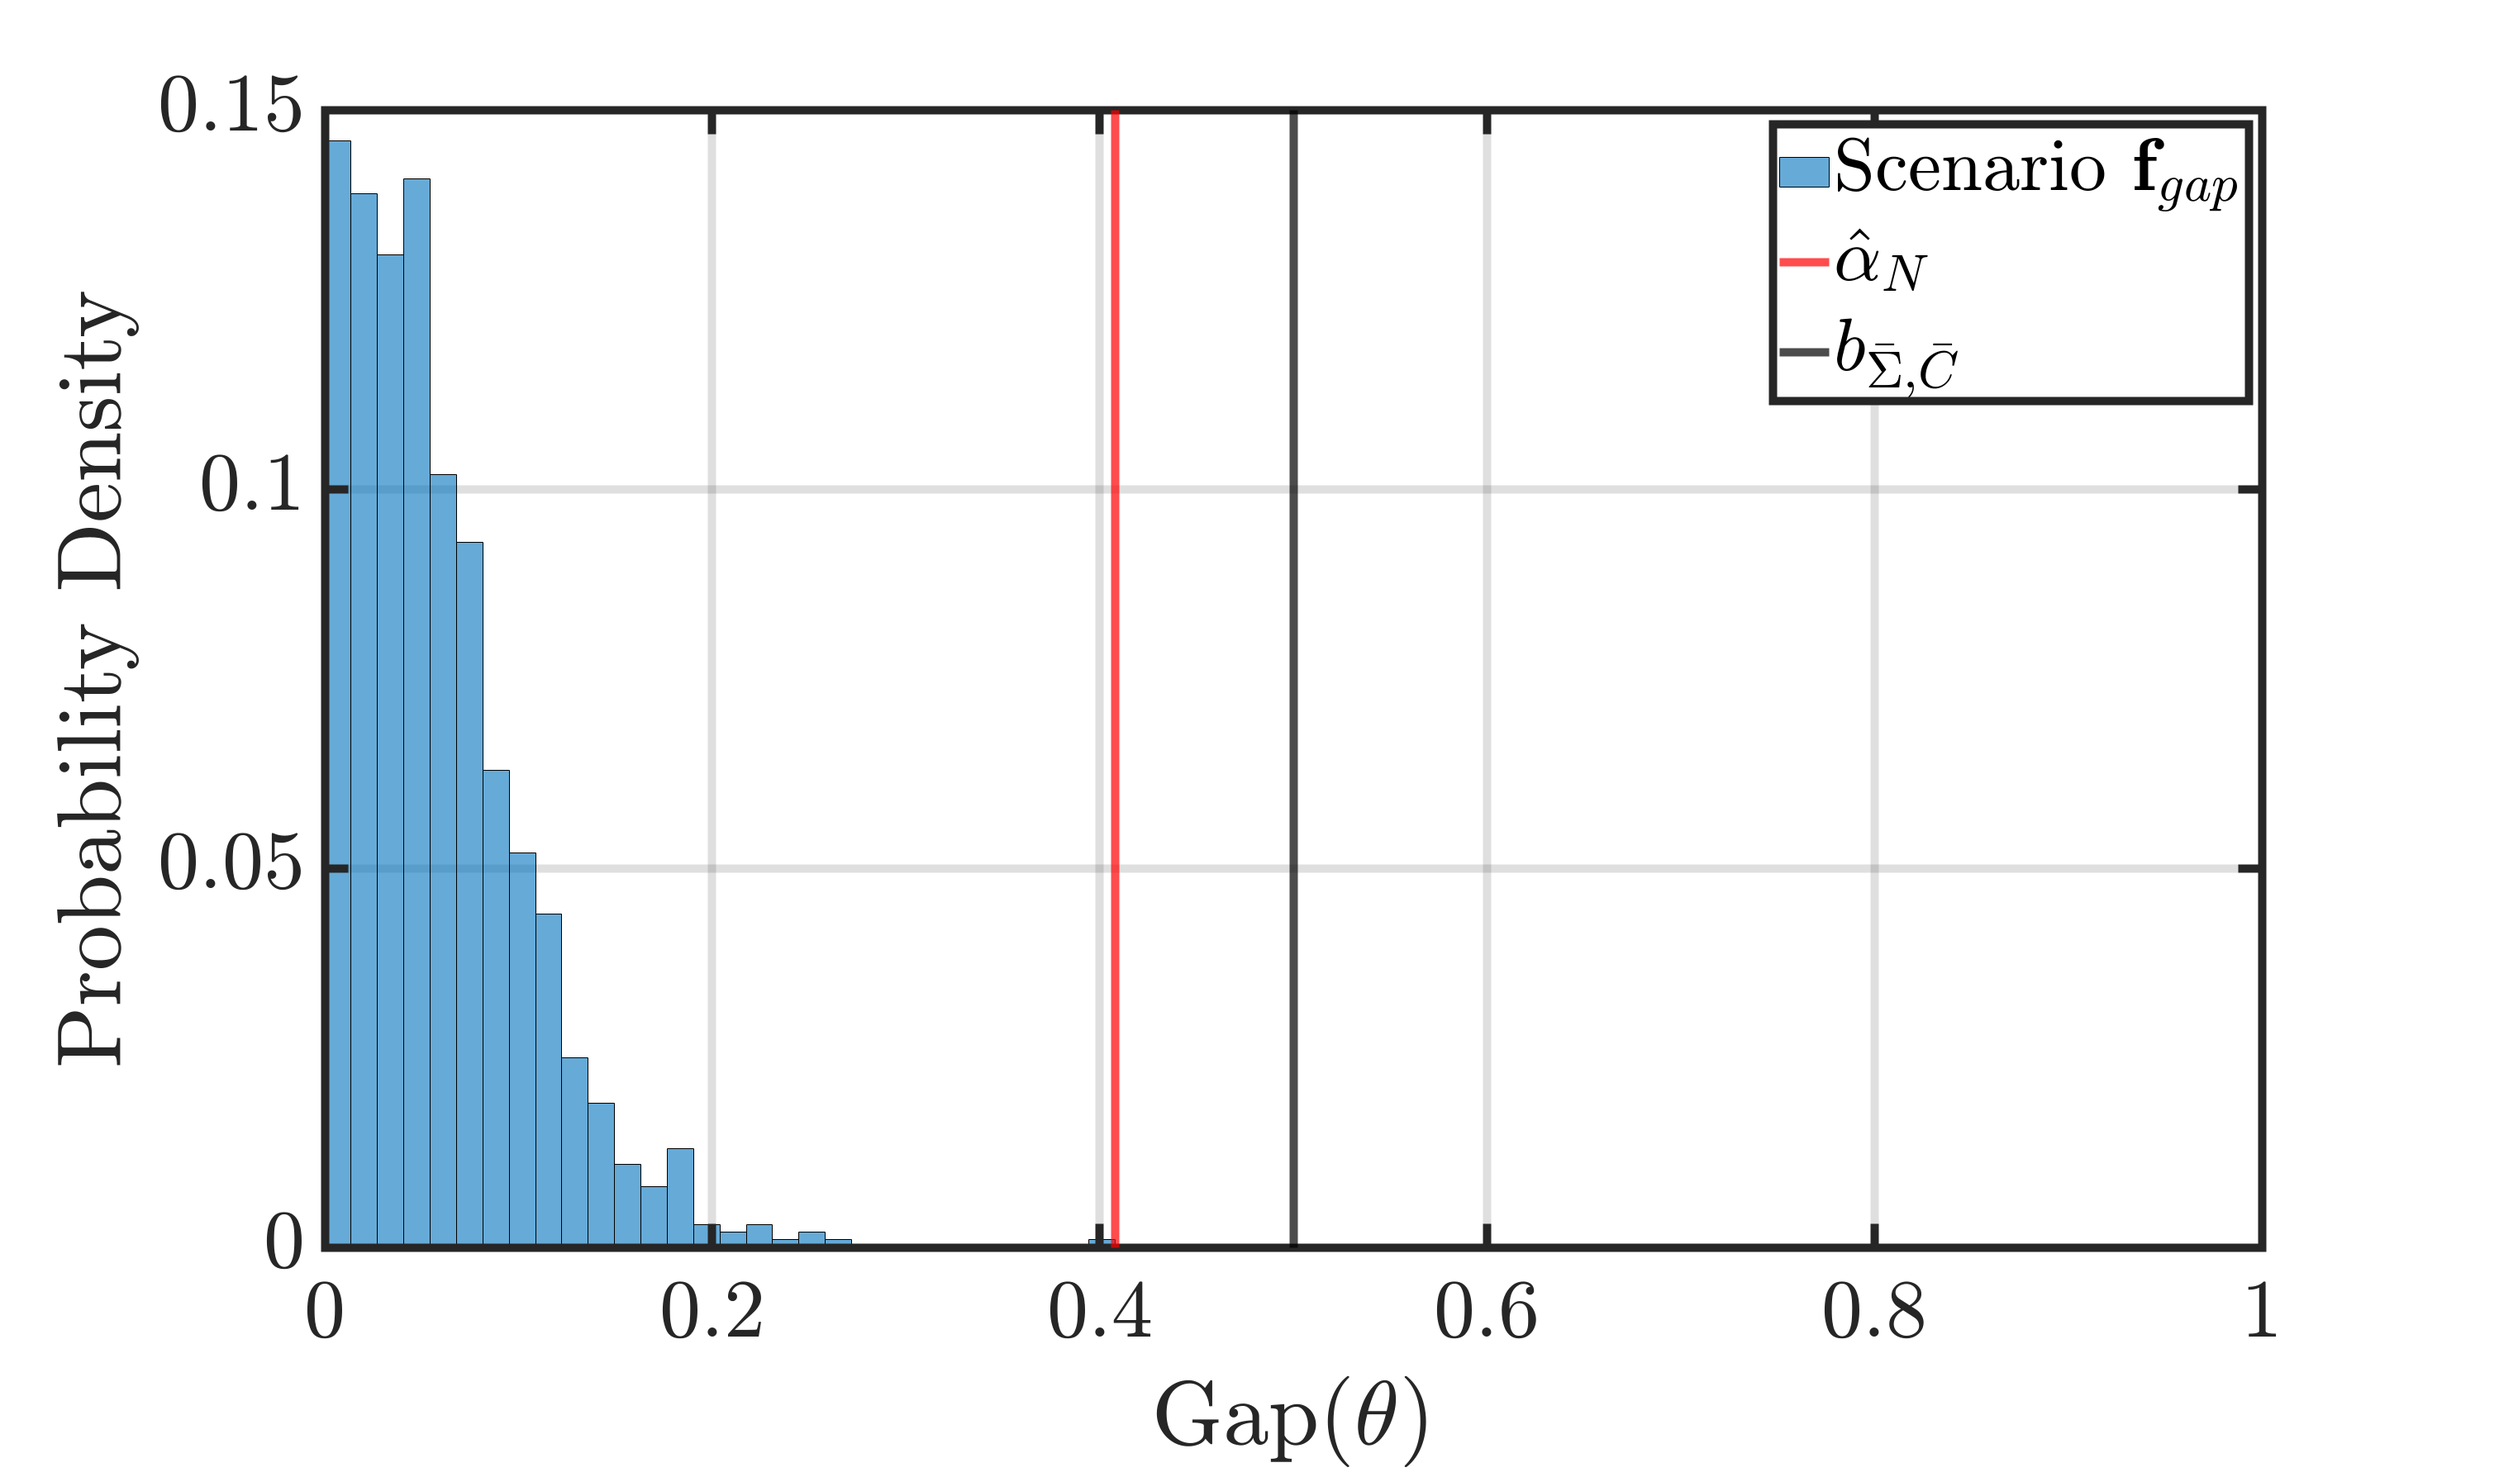
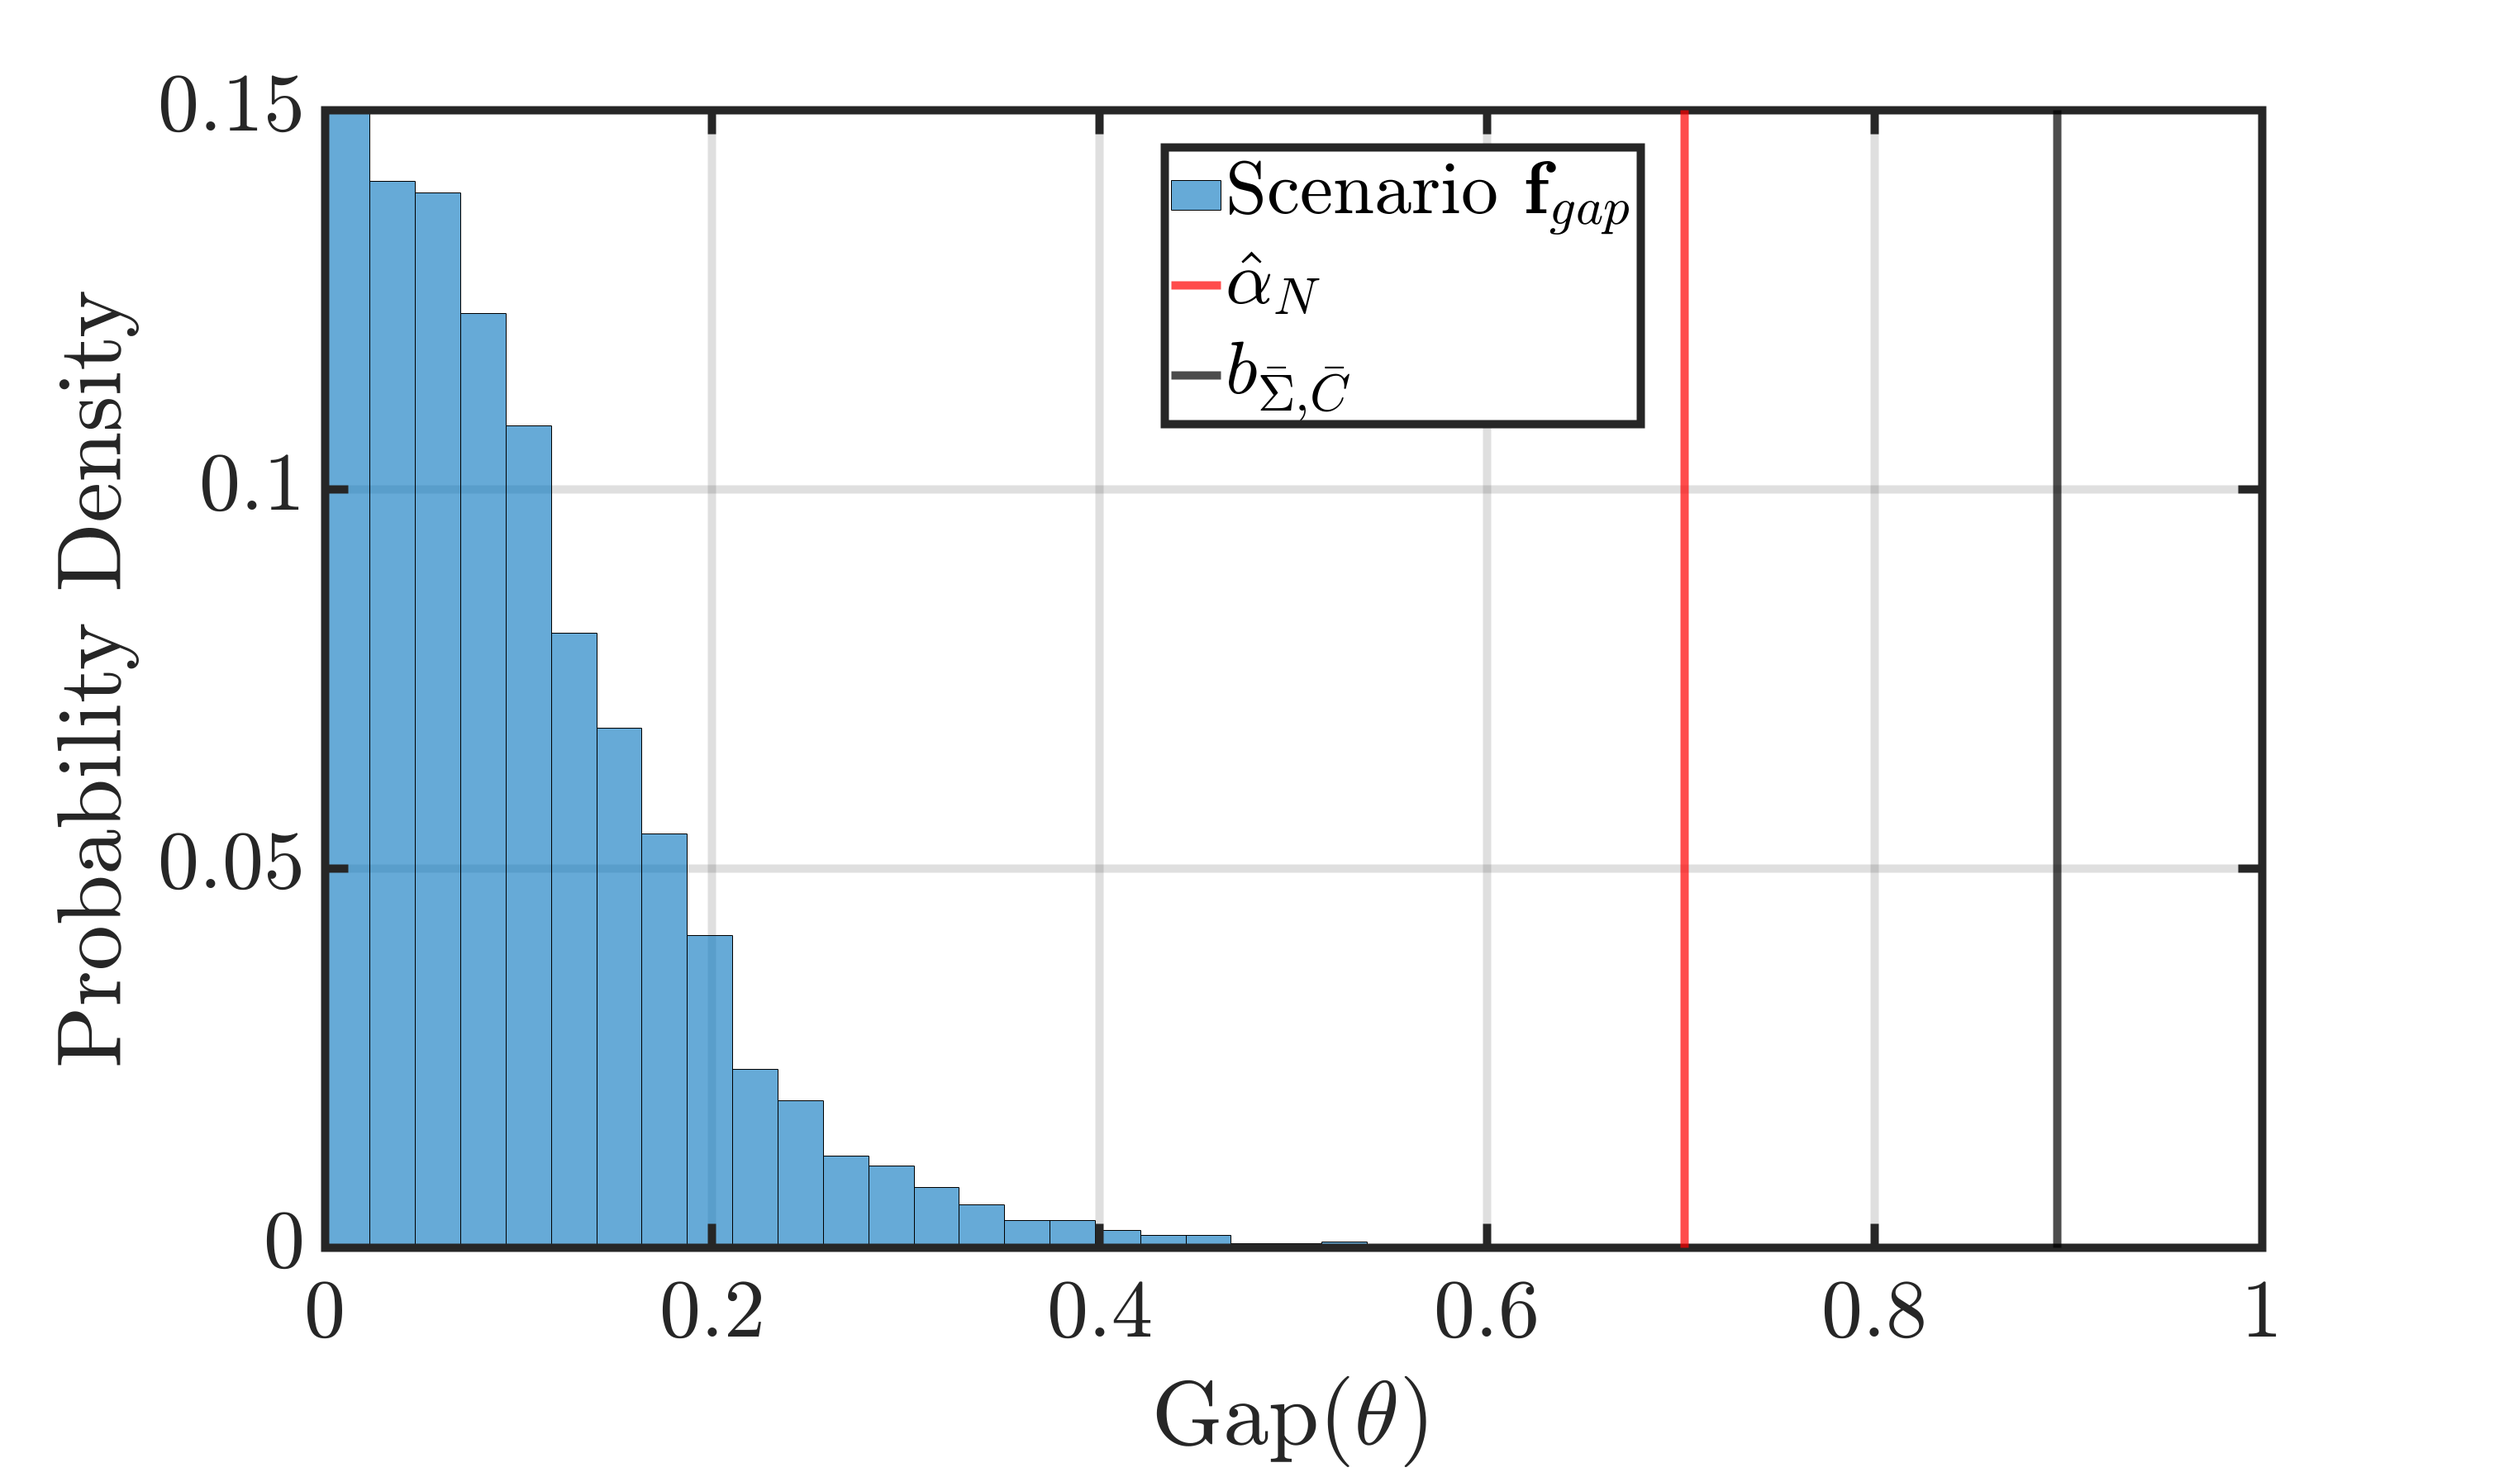
Many changes

Changed region(s): [[0.1243, 0.0615, 0.9015, 0.8613]]

diff --git a/probabilisticGapGuarantees.m b/probabilisticGapGuarantees.m
@@ -10,7 +10,7 @@
 %
 % Email: v.renganathan@cranfield.ac.uk
 %
-% Date last updated: 10 July, 2025.
+% Date last updated: 12 July, 2025.
 %
 %%%%%%%%%%%%%%%%%%%%%%%%%%%%%%%%%%%%%%%%%%%%%%%%%%%%%%%%%%%%%%%%%%%%%%%%%%%
 %%%%%%%%%%%%%%%%%%%%%%%%%%%%%%%%%%%%%%%%%%%%%%%%%%%%%%%%%%%%%%%%%%%%%%%%%%%
@@ -45,18 +45,23 @@ bPC_Nominal = compute_bpc(nominalSystem, nominalControllerStateSpace); % 0.8;
 
 %% Parameters for Simulation
 
-
 % Set the number of samples of \theta for Monte-Carlo simulation
-numSamples = 1000;
+numSamples = 10000;
 
 % Mean of \theta
-muTheta = [0.1; -0.05];
+meanTheta = [0.1; -0.05];
+
+% Infer the dimension of \theta parameter
+thetaDimension = size(meanTheta, 1);
 
 % Set the standard deviation for \theta parameter
-sigmaTheta = 0.5;
+standardDeviationTheta = 0.5;
+
+% Form the covariance matrix of \theta parameter
+covarianceTheta = standardDeviationTheta^(2)*eye(thetaDimension);
 
 % Sample \theta from Gaussian distribution
-thetaSamples = mvnrnd(muTheta', sigmaTheta^(2)*eye(2), numSamples);
+thetaSamples = mvnrnd(meanTheta', covarianceTheta, numSamples);
 
 % Place holders for storing computed values
 gapValues = zeros(numSamples,1);
@@ -70,15 +75,15 @@ for i = 1:numSamples
     theta = thetaSamples(i,:)';
 
     % Form ith Perturbed System \tilde{\Sigma}(theta) using \theta
-    A2 = -1 + theta(1);
-    C2 = 1 + theta(2);
+    A2 = A1 + theta(1);
+    C2 = C1 + theta(2);
     perturbedSystem = tf(ss(A2, B1, C2, D1));
     
     % Compute gap with Matlab inbuilt command
     [gapValues(i), ~] = gapmetric(nominalSystem, perturbedSystem);
     
     % Compute the norm of theta variations from mean
-    thetaNorms(i) = norm(theta - muTheta);
+    thetaNorms(i) = norm(theta - meanTheta);
     
     % Form the closed loop state space
     closedLoopSystem = feedback(series(nominalController, perturbedSystem), 1);   
@@ -97,7 +102,7 @@ hInftyNormValues = hInftyNormValues(~isinf(hInftyNormValues));
 gammaValues = linspace(1.01, 10.0, 100);
 
 % Estimate Lipschitz constant of gap as Gap/theta_norm
-L_gap = mean(gapValues ./ thetaNorms);
+gapLispchitz = mean(gapValues ./ thetaNorms);
 
 % Placeholder for Upper bound of Prob(\norm{T_zw}_{\infty} \leq \gamma)
 upperBoundProbability = zeros(size(gammaValues));
@@ -108,21 +113,21 @@ for i = 1:length(gammaValues)
     gammaBar = (gammaValues(i) - bPC_Nominal) / (1 + gammaValues(i));
     
     % Find Upper bound for Prob(\norm{T_zw}_{\infty} \leq \gamma)
-    upperBoundProbability(i) = 1 - exp(-(gammaBar^2)/(2*L_gap^2*sigmaTheta^2));
+    upperBoundProbability(i) = 1 - exp(-(gammaBar^2)/(2*gapLispchitz^2*standardDeviationTheta^2));
 end
 
 %% Print the Summary of Results
 fprintf('--- Printing the Summary of Results ---\n');
 
 % Report the Lipschitz constant of gap
-fprintf('Estimated L_gap: %.4f\n', L_gap);
+fprintf('Estimated L_gap: %.4f\n', gapLispchitz);
 
 % Compute & report the expected gap
 expectedGap = mean(gapValues);
 fprintf('E[Gap]: %.4f\n', expectedGap);
 
 % Compute & report the upper bound for expected gap
-expectedGapUpperBound = L_gap * mean(thetaNorms);
+expectedGapUpperBound = gapLispchitz * mean(thetaNorms);
 fprintf('L_gap * E[theta_norms]: %.4f\n', expectedGapUpperBound);
 
 % Check if expectedGap exceeds the upperBound
@@ -137,7 +142,7 @@ expectedTzwHinfNorm = mean(hInftyNormValues);
 fprintf('E[||T_{zw}(P2, C)||_inf]: %.4f\n', expectedTzwHinfNorm);
 
 % Compute & report the upper bound on expected Hinf norm of T_zw transfer function
-CinvGap = (1/(1-expectedGapUpperBound))*(1+expectedGapUpperBound + 8 * sigmaTheta^(2) * L_gap^(2) * exp(-(1-expectedGapUpperBound)^(2)/(8 * sigmaTheta^(2) * L_gap^(2) )));
+CinvGap = (1/(1-expectedGapUpperBound))*(1+expectedGapUpperBound + 8 * standardDeviationTheta^(2) * gapLispchitz^(2) * exp(-(1-expectedGapUpperBound)^(2)/(8 * standardDeviationTheta^(2) * gapLispchitz^(2) )));
 expectedTzwHinfNormUpperBound = (bPC_Nominal + 1) * CinvGap;
 fprintf('Upper Bound on E[||T_{zw}(P2, C)||_inf]: %.4f\n', expectedTzwHinfNormUpperBound);
 
@@ -162,6 +167,8 @@ plot(gammaValues, upperBoundProbability, 'LineWidth', 2);
 xlabel('$\gamma$', 'Interpreter', 'latex');
 ylabel('$P(||T_{zw}(\tilde{\Sigma}(\theta), \bar{C})||_{\mathcal{H}_{\infty}} \leq \gamma)$', 'Interpreter', 'latex');
 grid on;
+xticks(1:1:10);
+xlim([1, 10]);
 a = findobj(gcf, 'type', 'axes');
 h = findobj(gcf, 'type', 'line');
 set(h, 'linewidth', 5);

diff --git a/probabilisticGapScenarioRobustness.m b/probabilisticGapScenarioRobustness.m
@@ -8,7 +8,7 @@
 %
 % Emails: v.renganathan@cranfield.ac.uk
 %
-% Date last updated: 9 July, 2025.
+% Date last updated: 12 July, 2025.
 %
 %%%%%%%%%%%%%%%%%%%%%%%%%%%%%%%%%%%%%%%%%%%%%%%%%%%%%%%%%%%%%%%%%%%%%%%%%%%
 %%%%%%%%%%%%%%%%%%%%%%%%%%%%%%%%%%%%%%%%%%%%%%%%%%%%%%%%%%%%%%%%%%%%%%%%%%%
@@ -26,58 +26,54 @@ addpath(genpath('src'));
 % Nominal system P
 s = tf('s');
 P = 1/(s+1);
-C = 1; % Controller stabilizing nominal system
-
-% Form the sensitivity and complementary sensitivity functions
-sentivity = 1/(1+P*C);
-CompSenNorm = norm(1-sentivity,inf);
+C = 0.5*(s+2)/(s+3); %0.5; % Controller stabilizing nominal system
 
 % Gap robustness margin
-b_PC = norm(1-sentivity,inf); % assumed known from design 0.6
+b_PC = compute_bpc(P, C);
 
 % Simulation Parameters
-d = 2;                % Dimension of theta parameter
-N = 1000;             % Number of scenarios
+N = 10000;            % Number of scenarios
 beta = 0.01;          % confidence level
 epsilon = 0.05;       % violation probability
-sigmaTheta = 0.1;     % Standard deviation of theta
-muTheta = zeros(d,1); % Mean of theta
+muTheta = 0;          % Mean of theta
+sigmaTheta = 0.25;    % Standard deviation of theta
 
 % Generate N scenarios of theta
-thetaValues = mvnrnd(muTheta, sigmaTheta^2*eye(d), N);
+thetaValues = normrnd(muTheta, sigmaTheta, [1, N]);
+
 % Place holder to store gap values
 gapValues = zeros(N,1);
 
 % Run Monte-carlo simulation with N scenarios
 for i = 1:N
-    % Get the ith sample
-    theta = thetaValues(i,:)';
-    % Generate the pole perturbation
-    deltaPole = 0.5*sum(theta);
+    % Generate the pole perturbation as theta
+    deltaPole = thetaValues(i);
+    
     % Generate the random perturbed system
     P_theta = 1/(s+1+deltaPole);
+    
     % Compare with Matlab inbuilt gapmetric command
     [gapValues(i), ~] = gapmetric(P, P_theta);
 end
 
 % Scenario-based gap threshold
-alphaHat = max(gapValues);
+alphaHatN = max(gapValues);
 
 % Theoretical sample size check (Calafiore & Dabbene)
-N_required = ceil(log(1/beta)/log(1/(1-epsilon)));
-fprintf('Scenarios taken: %d, Required: %d\n', N, N_required);
+requiredSamples = ceil(log(1/beta)/log(1/(1-epsilon)));
+fprintf('Scenarios taken: %d, Required: %d\n', N, requiredSamples);
 
 % Probabilistic stabilization check
-if alphaHat < b_PC
-    fprintf('Probabilistic robustness guarantee met: alpha_hat=%.4f < b_PC=%.4f\n', alphaHat, b_PC);
+if alphaHatN < b_PC
+    fprintf('Probabilistic robustness guarantee met: alpha_hat=%.4f < b_PC=%.4f\n', alphaHatN, b_PC);
 else
-    fprintf('Probabilistic robustness guarantee NOT met: alpha_hat=%.4f >= b_PC=%.4f\n', alphaHat, b_PC);
+    fprintf('Probabilistic robustness guarantee NOT met: alpha_hat=%.4f >= b_PC=%.4f\n', alphaHatN, b_PC);
 end
 
 %% Plot scenario gap values
 figure;
 histogram(gapValues, 30,'Normalization','probability');
-xline(alphaHat,'r','LineWidth',5);
+xline(alphaHatN,'r','LineWidth',5);
 xline(b_PC,'k','LineWidth',5);
 xlabel('$\mathrm{Gap}(\theta)$');
 ylabel('Probability Density');

diff --git a/probabilisticGapRobustStability.m b/probabilisticGapRobustStability.m
@@ -11,7 +11,7 @@
 %
 % Email: v.renganathan@cranfield.ac.uk
 %
-% Date last updated: 10 July, 2025.
+% Date last updated: 12 July, 2025.
 %
 %%%%%%%%%%%%%%%%%%%%%%%%%%%%%%%%%%%%%%%%%%%%%%%%%%%%%%%%%%%%%%%%%%%%%%%%%%%
 %%%%%%%%%%%%%%%%%%%%%%%%%%%%%%%%%%%%%%%%%%%%%%%%%%%%%%%%%%%%%%%%%%%%%%%%%%%
@@ -35,13 +35,13 @@ D = 0;
 nominalSystem = tf(ss(A, B, C, D));
 
 % Set the parameters for simulation
-p = 2;                          % Dimension of θ 
+thetaDimension = 2;             % Dimension of θ 
 numSamples = 10000;             % Number of θ samples
 meanTheta = [0.50 -0.25];       % Mean of θ
 standardDeviationTheta = 0.25;  % Standard Deviation of θ
 
 % Set covariance of theta
-covarianceTheta = standardDeviationTheta^(2)*eye(p); 
+covarianceTheta = standardDeviationTheta^(2)*eye(thetaDimension); 
 
 % Place holder for storing gap and theta values
 gapValues = zeros(1, numSamples);
